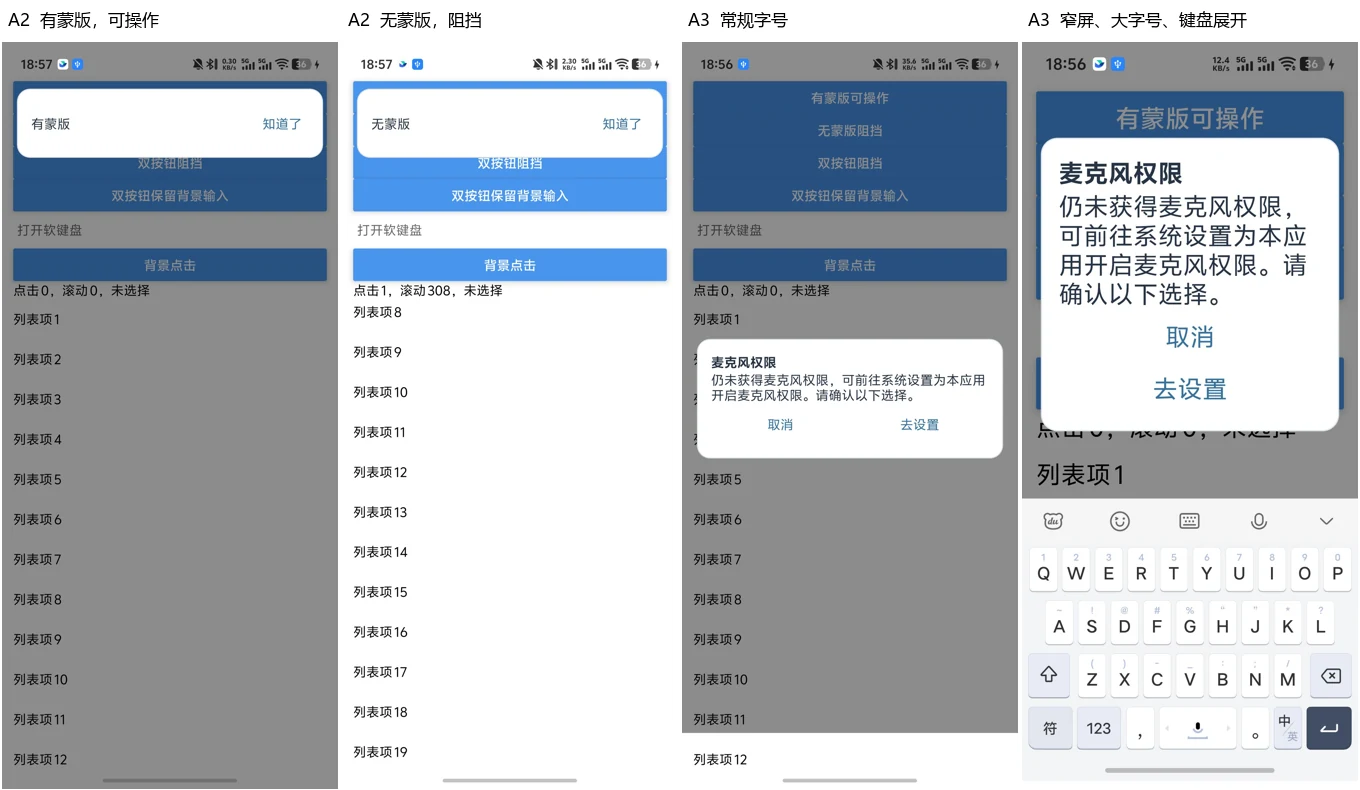
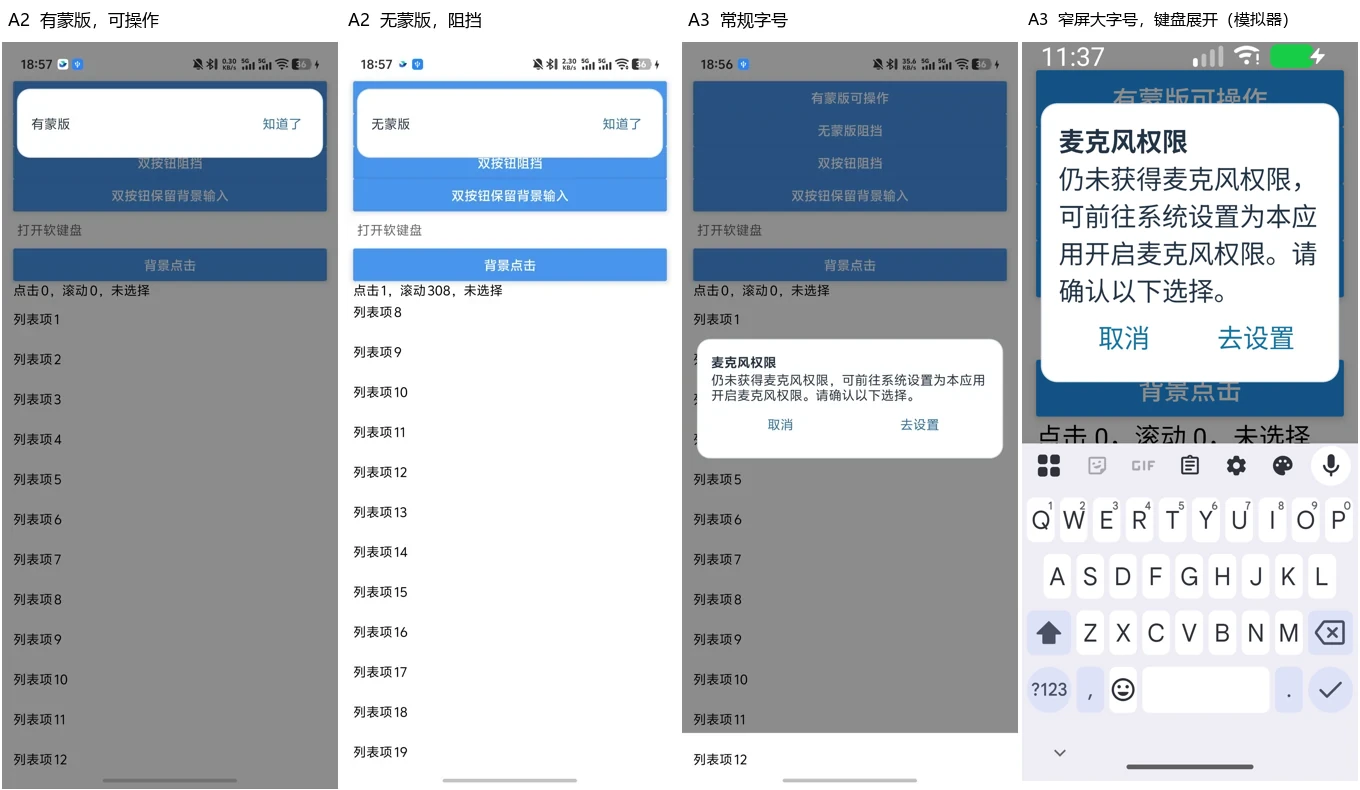
fix(app): 大字号下双按钮优先等宽同行

diff --git a/app/shell/notices/AppNotices.tsx b/app/shell/notices/AppNotices.tsx
@@ -115,13 +115,8 @@ function NoticeView({ notice, choose }: { notice: Notice; choose(button?: Button
         {notice.title ? <Text style={{ color: theme.text, fontWeight: 'bold' }}>{notice.title}</Text> : null}
         <Text style={{ color: theme.text }}>{notice.message}</Text>
       </ScrollView>
-      <View style={{ flexDirection: compact ? 'column' : 'row', alignSelf: notice.cancel ? 'stretch' : 'flex-end', marginLeft: banner && !compact ? 'auto' : 0 }}>
-        {[...(notice.cancel ? [notice.cancel] : []), primary].map((button, index) =>
-          <Pressable key={index} accessibilityRole="button" accessibilityLabel={button.accessibilityLabel} onPress={() => choose(button)}
-            style={{ flexGrow: notice.cancel ? 1 : 0, flexBasis: notice.cancel && !compact ? 0 : 'auto', padding: 8, minHeight: 44, justifyContent: 'center', alignItems: 'center' }}>
-            <Text style={{ color: theme.accentText }}>{button.label}</Text>
-          </Pressable>)}
-      </View>
+      <NoticeButtons key={JSON.stringify([width, fontScale, notice.cancel?.label, primary.label])}
+        cancel={notice.cancel} primary={primary} theme={theme} choose={choose} inline={banner && !compact} />
     </View>
   </View>;
   // Android dispatches back to the modal before the underlying business screen.
@@ -130,4 +125,23 @@ function NoticeView({ notice, choose }: { notice: Notice; choose(button?: Button
       {overlay}
     </KeyboardAvoidingView>
   </Modal> : overlay;
+}
+
+function NoticeButtons({ cancel, primary, theme, choose, inline }: {
+  cancel?: Button; primary: Button; theme: AppTheme; choose(button: Button): void; inline: boolean;
+}) {
+  const [stacked, setStacked] = useState(false);
+  return <View style={{ flexDirection: stacked ? 'column' : 'row', alignSelf: cancel ? 'stretch' : 'flex-end',
+    marginLeft: inline ? 'auto' : 0 }}>
+    {(cancel ? [cancel, primary] : [primary]).map((button, index) =>
+      <Pressable key={index} accessibilityRole="button" accessibilityLabel={button.accessibilityLabel}
+        onPress={() => choose(button)}
+        style={{ flexGrow: cancel ? 1 : 0, flexBasis: cancel && !stacked ? 0 : 'auto', padding: 8,
+          minHeight: 44, justifyContent: 'center', alignItems: 'center' }}>
+        <Text style={{ color: theme.accentText, textAlign: 'center' }}
+          onTextLayout={cancel && !stacked ? event => {
+            if (event.nativeEvent.lines.length > 1) setStacked(true);
+          } : undefined}>{button.label}</Text>
+      </Pressable>)}
+  </View>;
 }

diff --git a/app/__tests__/app_notices.test.tsx b/app/__tests__/app_notices.test.tsx
@@ -1,12 +1,12 @@
 import React from 'react';
 import { act, create, type ReactTestRenderer } from 'react-test-renderer';
-import { Modal, Pressable, Text } from 'react-native';
+import { Modal, Pressable, Text, useWindowDimensions } from 'react-native';
 import { AppNotices, usePageNotices } from '../shell/notices/AppNotices';
 import { THEMES } from '../shared/ui/theme';
 
 jest.mock('react-native-safe-area-context', () => ({ useSafeAreaInsets: () => ({ top: 0, bottom: 0 }) }));
 jest.mock('react-native', () => ({
-  useWindowDimensions: () => ({ width: 390, fontScale: 1 }), Platform: { OS: 'android' },
+  useWindowDimensions: jest.fn(() => ({ width: 390, fontScale: 1 })), Platform: { OS: 'android' },
   KeyboardAvoidingView: 'KeyboardAvoidingView', View: 'View', ScrollView: 'ScrollView',
   Modal: 'Modal', Pressable: 'Pressable', Text: 'Text', StyleSheet: {},
 }));
@@ -62,4 +62,30 @@ it.each([
   expect(root.root.findAllByType(Pressable).map(button => button.findByType(Text).props.children))
     .toEqual(twoButtons ? ['取消', '继续'] : ['继续']);
   act(() => root.unmount());
+});
+
+it('窄屏大字号下两个按钮先等宽同行；文字实际折行才改为上下排列', () => {
+  jest.mocked(useWindowDimensions).mockReturnValue({ width: 286, height: 629, scale: 3.5, fontScale: 1.5 });
+  function Page() {
+    const show = usePageNotices('聊天');
+    React.useEffect(() => show({ message: '权限', theme: THEMES.light,
+      cancel: { label: '取消' }, primary: { label: '去设置' } }), [show]);
+    return null;
+  }
+  let root!: ReactTestRenderer;
+  try {
+    act(() => { root = create(<AppNotices><Page /></AppNotices>); });
+    const buttons = () => root.root.findAllByType(Pressable);
+    const direction = () => buttons()[0].parent!.props.style.flexDirection;
+    expect(direction()).toBe('row');
+    expect(buttons().map(button => button.props.style.flexBasis)).toEqual([0, 0]);
+    const label = buttons()[1].findByType(Text);
+    act(() => label.props.onTextLayout({ nativeEvent: { lines: [{}] } }));
+    expect(direction()).toBe('row');
+    act(() => label.props.onTextLayout({ nativeEvent: { lines: [{}, {}] } }));
+    expect(direction()).toBe('column');
+  } finally {
+    act(() => root?.unmount());
+    jest.mocked(useWindowDimensions).mockReturnValue({ width: 390, height: 800, scale: 1, fontScale: 1 });
+  }
 });
